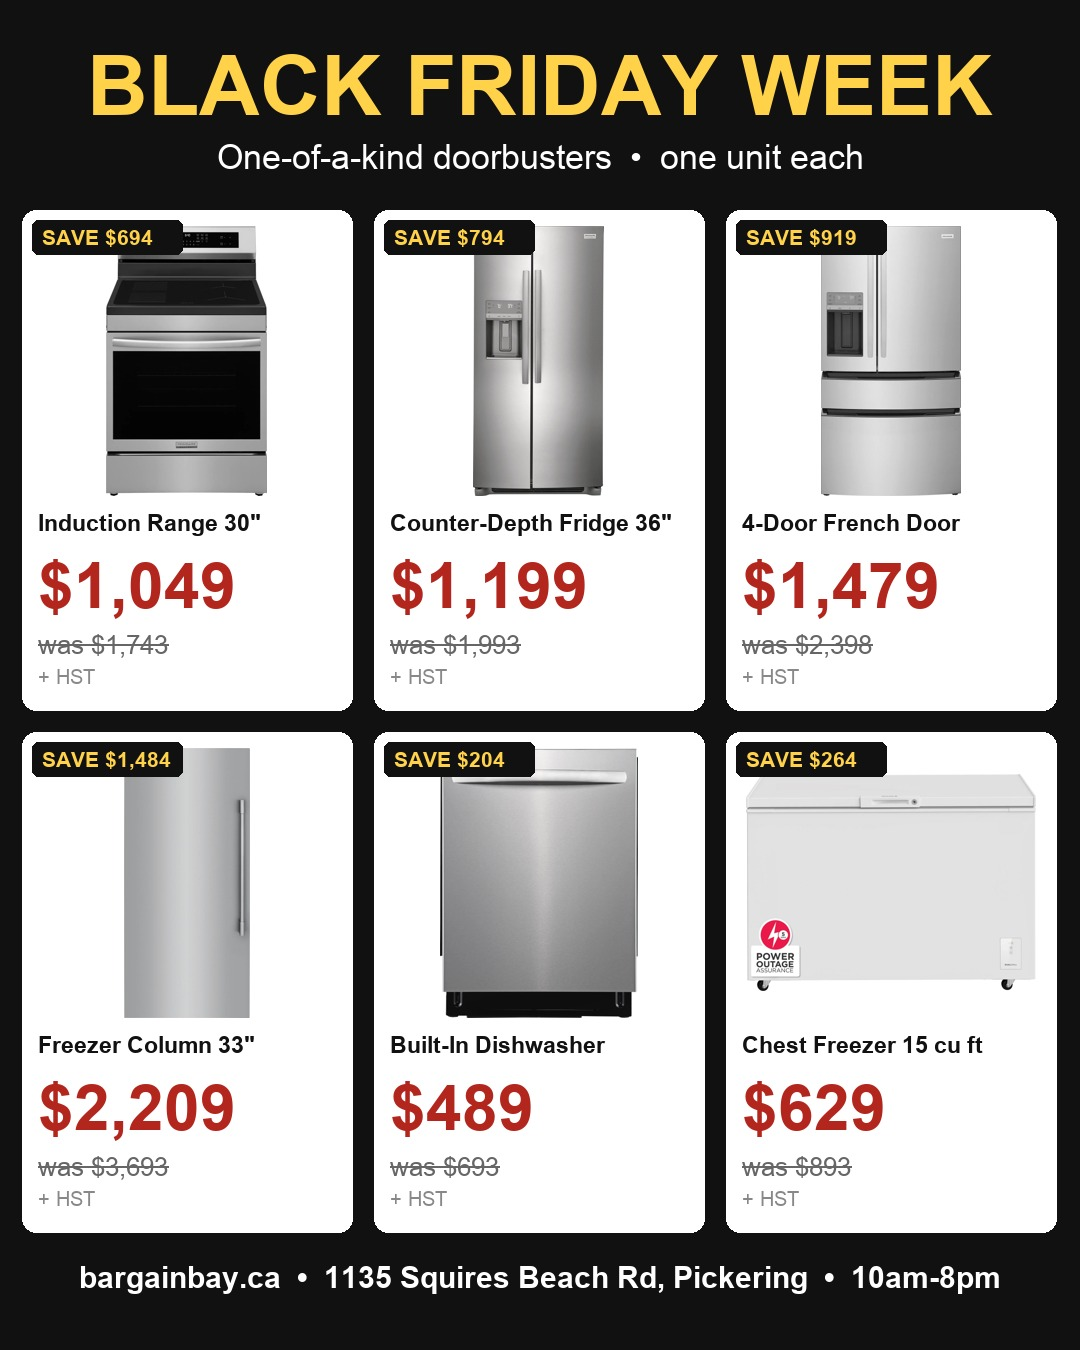
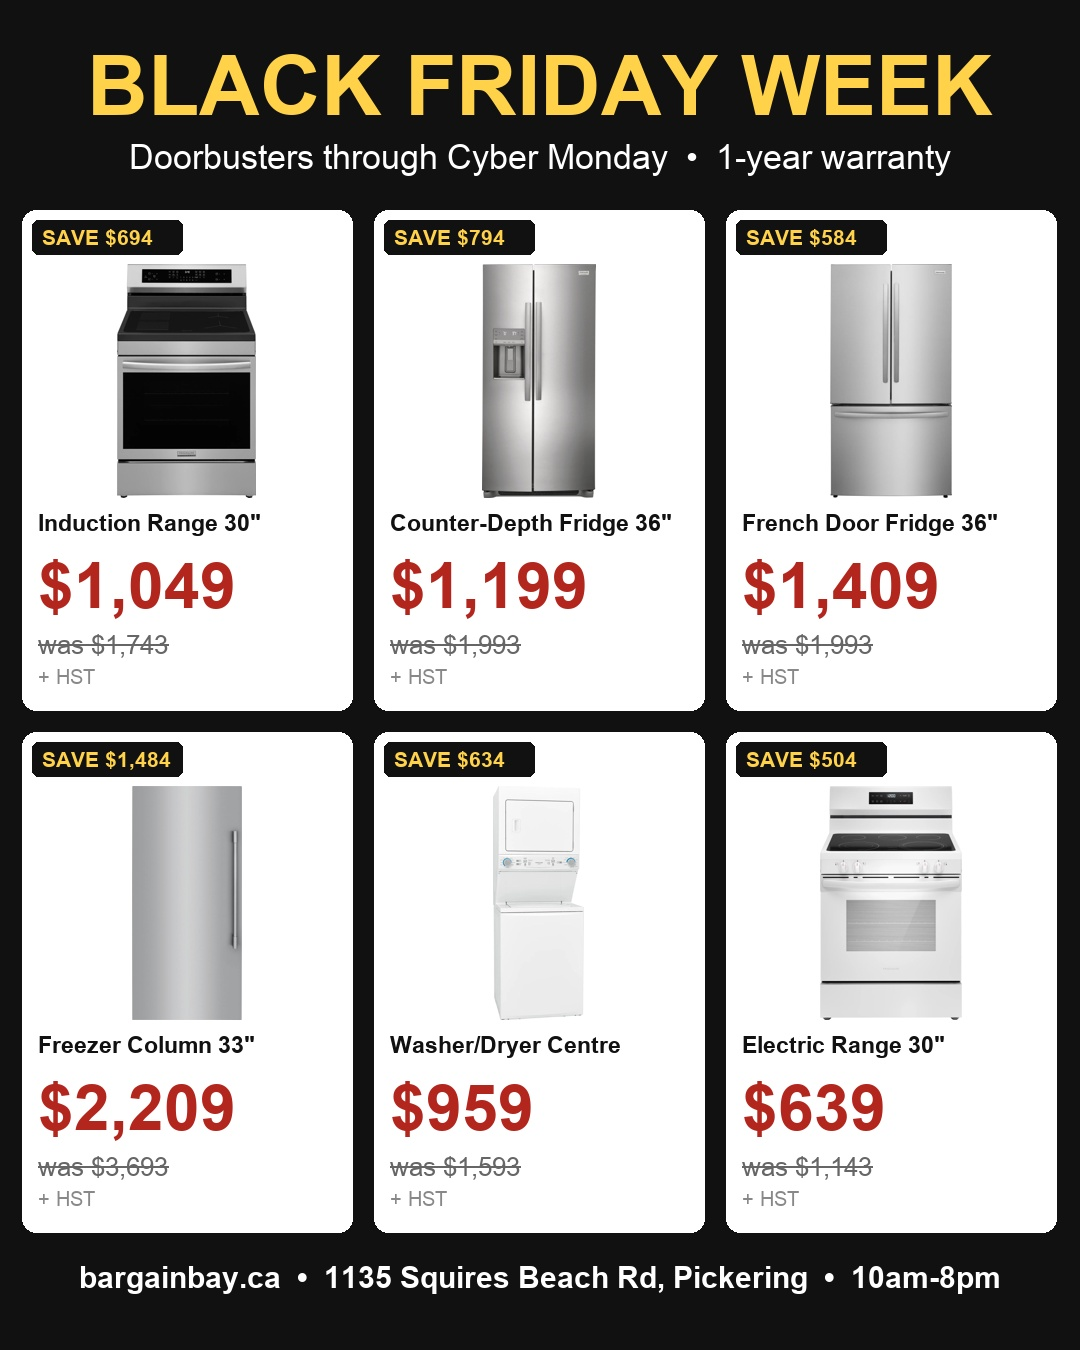
Marketing posters: remake the Black Friday doorbusters poster with units still for sale

diff --git a/lib/marketing-assets.js b/lib/marketing-assets.js
@@ -22,7 +22,7 @@ export const CAMPAIGNS = [
     formats: [
       {
         id: 'feed', title: 'Feed post', size: '4:5 · 1080 × 1350',
-        note: 'Posted to Facebook and Instagram on Nov 22. As of Nov 26 three of the six had sold: the 4-door French door fridge, the dishwasher and the chest freezer. Do not repost it as it is: ask for a new one.',
+        note: 'Remade Nov 26; all six were for sale that afternoon. Prices are before HST. Replaces the Nov 22 poster: do not repost the old one.',
         posters: [
           { id: 'bf-doorbusters', title: 'Six doorbusters', still: `${BF}/doorbusters-feed.jpg` }
         ]
